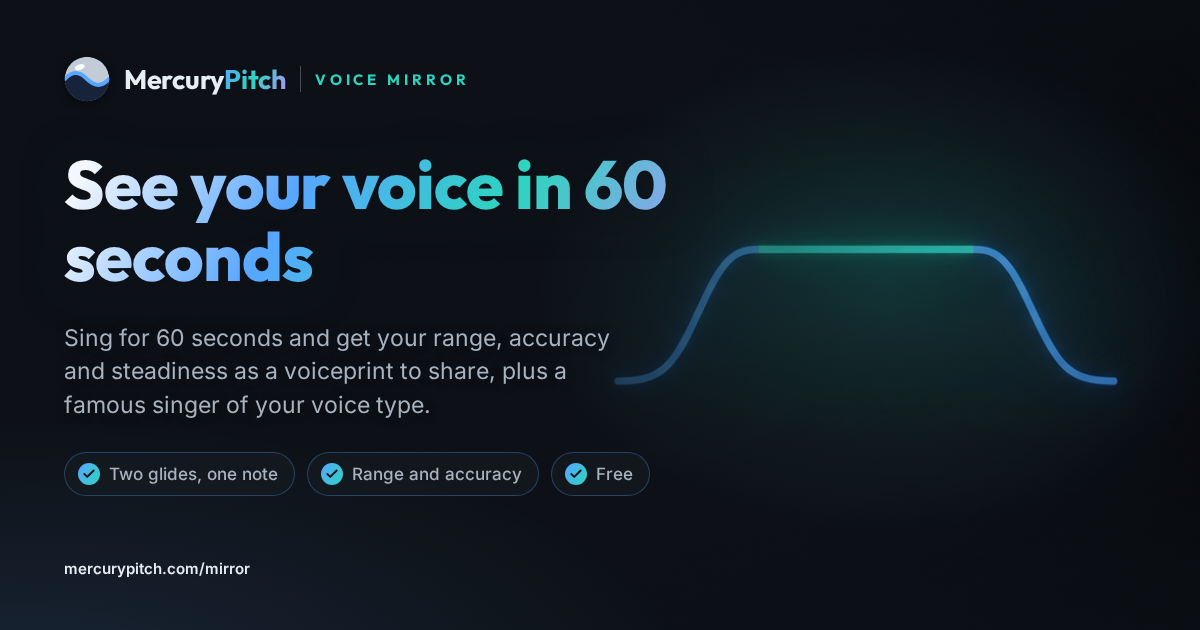
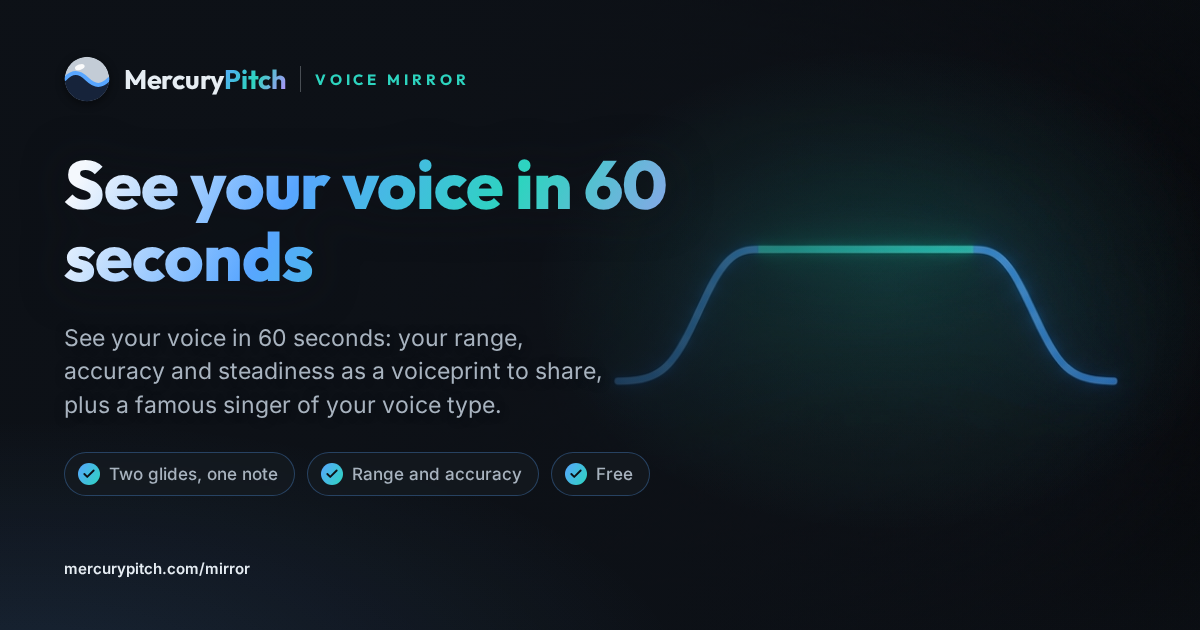
fix(copy): pitch Voice Mirror as seeing your voice in 60 seconds
The owner: 60 seconds is fine as a hook even though the whole visit takes
a few minutes. "Sing for 60 seconds" becomes "See your voice in 60
seconds" in the Mirror's meta and card text, and the other doors into the
same guided flow use the same framing: the voice type card's "A minute on
the clock" pill is now "Your type in 60 seconds", Singer Match's meta
says "Find your range in 60 seconds", and a shared voiceprint's unfurl
says "See your own voice in 60 seconds".

The FAQ and how-it-works sentences that explain the timed part and the
self-paced steps stay as they are. Cards regenerated and restamped.

Changed region(s): [[0.0617, 0.5127, 0.4933, 0.6032], [0.0308, 0.6333, 0.4317, 0.6635]]

diff --git a/src/seo/entry-pages.ts b/src/seo/entry-pages.ts
@@ -103,13 +103,13 @@ export const ENTRY_PAGES: readonly EntryPage[] = [
     themeColor: MIRROR_THEME_COLOR,
     title: 'Voice Mirror — See Your Voice in 60 Seconds | MercuryPitch',
     description:
-      'Sing for 60 seconds and get your vocal range, pitch accuracy and steadiness as a shareable voiceprint. Free, and your audio never leaves your device.',
+      'See your voice in 60 seconds: your vocal range, pitch accuracy and steadiness as a shareable voiceprint. Free, and your audio never leaves your device.',
     keywords:
       'vocal range test, tone deaf test, pitch accuracy test, voice type, singing test, free vocal test',
     og: {
       title: 'Voice Mirror — See Your Voice in 60 Seconds',
       description:
-        'Sing for 60 seconds and get your range, accuracy and steadiness as a voiceprint to share, plus a famous singer of your voice type.',
+        'See your voice in 60 seconds: your range, accuracy and steadiness as a voiceprint to share, plus a famous singer of your voice type.',
       image: ogImage('mirror-og.png'),
       imageAlt:
         'A pitch contour rising, holding level, then falling — two glides around one steady note.',
@@ -635,7 +635,7 @@ export const ENTRY_PAGES: readonly EntryPage[] = [
     themeColor: MIRROR_THEME_COLOR,
     title: 'Which Singer Has My Vocal Range? Match Your Voice | MercuryPitch',
     description:
-      'Find your range, see which voice type it overlaps most, and meet a famous singer of that type. Free, a minute on the clock, and your audio stays on your device.',
+      'Find your range in 60 seconds, see which voice type it overlaps most, and meet a famous singer of that type. Free, and your audio stays on your device.',
     keywords:
       'which singer has my vocal range, singer with my voice, vocal range match, famous singer vocal ranges, what singer do i sound like',
     og: {

diff --git a/src/seo/og-image-versions.ts b/src/seo/og-image-versions.ts
@@ -10,12 +10,12 @@ export const OG_IMAGE_VERSIONS: Readonly<Record<string, string>> = {
   'guitar-night-og.png': '636eed8d',
   'jam-og.png': '8e2ed02f',
   'karaoke-og.png': '2c8fcb6a',
-  'mirror-og.png': '5222df75',
+  'mirror-og.png': 'b793e651',
   'og-image.png': '411005dd',
   'piano-night-og.png': 'abfdb130',
   'pitch-training-og.png': 'da8f6734',
   'vocal-range-test-og.png': '6b1ae1b7',
-  'voice-type-test-og.png': '1a229e5f',
+  'voice-type-test-og.png': 'b0765810',
   'which-singer-has-my-vocal-range-og.png': '4ade12e6',
   'glass/og.jpg': 'b1495474',
 }

diff --git a/src/tests/og-voiceprint-meta.test.ts b/src/tests/og-voiceprint-meta.test.ts
@@ -26,7 +26,7 @@ describe('voiceprintTitle', () => {
 describe('voiceprintDescription', () => {
   it('reads out what the take measured, in the order the card does', () => {
     expect(voiceprintDescription(FULL)).toBe(
-      'C3 – D5 · 2 octaves + 2 semitones · accuracy 87/100 · steadiness 92/100. Meet your own voice in about a minute.',
+      'C3 – D5 · 2 octaves + 2 semitones · accuracy 87/100 · steadiness 92/100. See your own voice in 60 seconds.',
     )
   })
 

diff --git a/src/og-voiceprint-meta.ts b/src/og-voiceprint-meta.ts
@@ -76,7 +76,7 @@ export function voiceprintDescription(data: VoiceprintShareData): string {
   const measured = parts.join(' · ')
   return measured === ''
     ? 'A voiceprint, measured in cents and milliseconds.'
-    : `${measured}. Meet your own voice in about a minute.`
+    : `${measured}. See your own voice in 60 seconds.`
 }
 
 /** The headline an unfurl shows above the card. */
